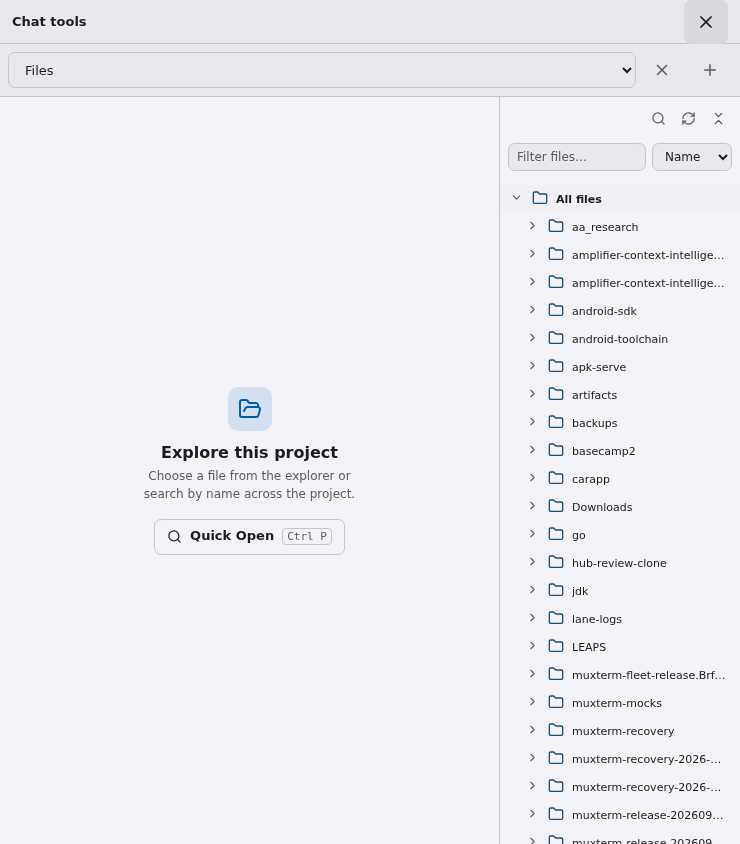
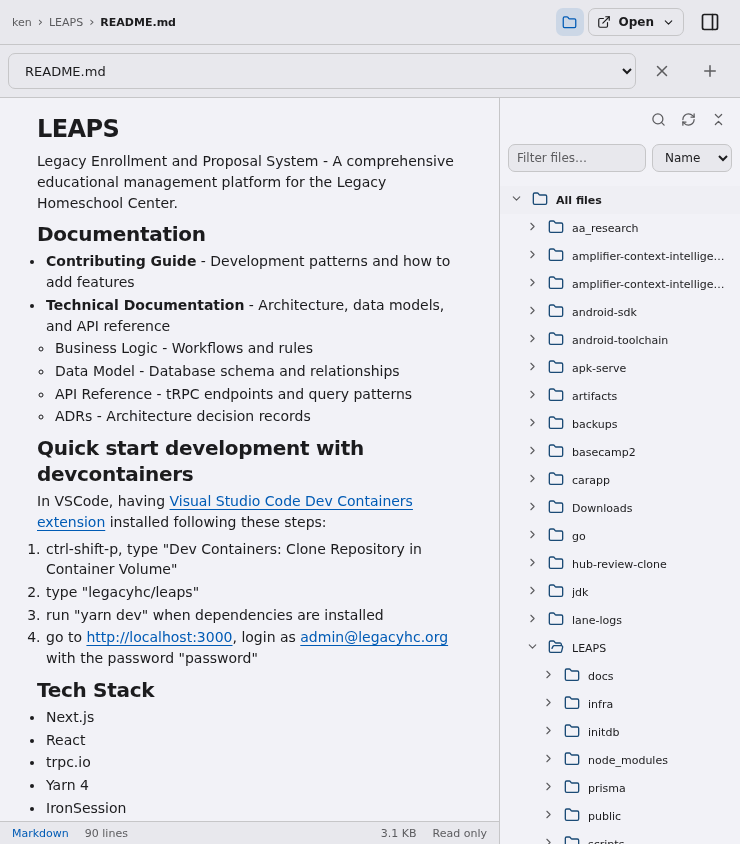
Place mobile file breadcrumb in utility header

diff --git a/web/src/components/mux-sdk-utility.ts b/web/src/components/mux-sdk-utility.ts
@@ -1,6 +1,6 @@
 import { LitElement, html, nothing, type TemplateResult } from 'lit';
 import { customElement, property } from 'lit/decorators.js';
-import { ArrowLeft, ChevronDown, ChevronRight, ChevronsDownUp, Code2, Copy, Download, Ellipsis, ExternalLink, File, FileImage, FileJson, FileText, Folder, FolderOpen, GitCompare, Globe2, Maximize2, MessageCircleQuestionMark, Minimize2, Network, NotebookPen, Pause, Play, Plus, RefreshCw, RotateCcw, Search, Sparkles, Target, Trash2, X, type IconNode } from 'lucide';
+import { ArrowLeft, ChevronDown, ChevronRight, ChevronsDownUp, Code2, Copy, Download, Ellipsis, ExternalLink, File, FileImage, FileJson, FileText, Folder, FolderOpen, GitCompare, Globe2, Maximize2, MessageCircleQuestionMark, Minimize2, Network, NotebookPen, PanelRight, Pause, Play, Plus, RefreshCw, RotateCcw, Search, Sparkles, Target, Trash2, X, type IconNode } from 'lucide';
 import { apiPath } from '../lib/base-path.js';
 import { icon } from '../lib/icons.js';
 import { parseMarkdown } from '../lib/markdown-stream.js';
@@ -252,7 +252,16 @@ export class MuxSDKUtility extends LitElement {
   override render() {
     if (this.terminalMode) return html`<style>${this.surfaceCSS}</style><div class="terminal-files-header"><strong>Files</strong><mux-ui-button icon-only size="small" variant="quiet" tone="muted" accessible-label="Close file explorer" tooltip="Close file explorer" @click=${() => this.dispatchEvent(new CustomEvent('close',{bubbles:true,composed:true}))}>${icon(X,{size:16})}</mux-ui-button></div><div class="utility-body" aria-label="Files">${this.filesView()}</div>`;
     const tab = this.currentTab;
-    return html`<style>${this.surfaceCSS}</style><mux-ui-tab-strip accessible-label="Chat tools" .tabs=${this.tabs.map((item):TabStripItem => ({id:item.id,label:this.tabTitle(item),title:item.filePath || this.tabTitle(item),icon:icon(item.kind === 'files' && item.filePath ? fileGlyph(item.filePath) : TAB_GLYPHS[item.kind],{size:14})}))} .activeId=${tab.id} @tab-select=${(event:CustomEvent<{id:string}>) => this.selectTab(event.detail.id)} @tab-close=${(event:CustomEvent<{id:string}>) => this.closeTab(event.detail.id)} @tab-add=${() => this.addTab()}></mux-ui-tab-strip><div class="mobile-tab-picker"><mux-ui-select aria-label="Chat tools tab" .options=${this.tabs.map(item => ({value:item.id,label:this.tabTitle(item)}))} .value=${tab.id} @change=${(event:Event) => this.selectTab((event.target as MuxUISelect).value)}></mux-ui-select><mux-ui-button icon-only size="large" variant="quiet" tone="muted" accessible-label=${`Close ${this.tabTitle(tab)} tab`} tooltip="Close tab" @click=${() => this.closeTab(tab.id)}>${icon(X,{size:18})}</mux-ui-button><mux-ui-button icon-only size="large" variant="quiet" tone="muted" accessible-label="New tab" tooltip="New tab" @click=${() => this.addTab()}>${icon(Plus,{size:18})}</mux-ui-button></div><div class="utility-body" role="tabpanel" aria-label=${this.tabTitle(tab)}>${tab.kind === 'new' ? this.newTabView() : tab.kind === 'files' ? this.filesView() : tab.kind === 'status' ? html`<mux-operator-status .sessionId=${this.sessionId}></mux-operator-status>` : tab.kind === 'changes' ? this.changesView() : tab.kind === 'goal' ? this.goalView() : tab.kind === 'browser' ? this.browserView(tab) : this.pagesView()}</div>`;
+    return html`<style>${this.surfaceCSS}</style>${this.mobileHeader()}<mux-ui-tab-strip accessible-label="Chat tools" .tabs=${this.tabs.map((item):TabStripItem => ({id:item.id,label:this.tabTitle(item),title:item.filePath || this.tabTitle(item),icon:icon(item.kind === 'files' && item.filePath ? fileGlyph(item.filePath) : TAB_GLYPHS[item.kind],{size:14})}))} .activeId=${tab.id} @tab-select=${(event:CustomEvent<{id:string}>) => this.selectTab(event.detail.id)} @tab-close=${(event:CustomEvent<{id:string}>) => this.closeTab(event.detail.id)} @tab-add=${() => this.addTab()}></mux-ui-tab-strip><div class="mobile-tab-picker"><mux-ui-select aria-label="Chat tools tab" .options=${this.tabs.map(item => ({value:item.id,label:this.tabTitle(item)}))} .value=${tab.id} @change=${(event:Event) => this.selectTab((event.target as MuxUISelect).value)}></mux-ui-select><mux-ui-button icon-only size="large" variant="quiet" tone="muted" accessible-label=${`Close ${this.tabTitle(tab)} tab`} tooltip="Close tab" @click=${() => this.closeTab(tab.id)}>${icon(X,{size:18})}</mux-ui-button><mux-ui-button icon-only size="large" variant="quiet" tone="muted" accessible-label="New tab" tooltip="New tab" @click=${() => this.addTab()}>${icon(Plus,{size:18})}</mux-ui-button></div><div class="utility-body" role="tabpanel" aria-label=${this.tabTitle(tab)}>${tab.kind === 'new' ? this.newTabView() : tab.kind === 'files' ? this.filesView() : tab.kind === 'status' ? html`<mux-operator-status .sessionId=${this.sessionId}></mux-operator-status>` : tab.kind === 'changes' ? this.changesView() : tab.kind === 'goal' ? this.goalView() : tab.kind === 'browser' ? this.browserView(tab) : this.pagesView()}</div>`;
+  }
+  private mobileHeader(): TemplateResult {
+    if (this.currentTab.kind === 'files') {
+      const file = this.artifact;
+      const hasAlternateView = !!file && !file.binary && !file.tooLarge && (file.kind === 'markdown' || /\.(csv|tsv|html?|svg)$/i.test(file.name));
+      const projectName = (this.projectPath || this.listing?.root || 'Project').split('/').filter(Boolean).pop() || 'Project';
+      return this.fileHeader(projectName, this.selected.split('/').filter(Boolean), file, hasAlternateView, true);
+    }
+    return html`<div class="mobile-utility-header"><span>Chat tools</span><mux-ui-button icon-only size="large" variant="quiet" accessible-label="Close utility pane" tooltip="Close utility pane" @click=${() => this.dispatchEvent(new CustomEvent('close',{bubbles:true,composed:true}))}>${icon(PanelRight,{size:20})}</mux-ui-button></div>`;
   }
   private tabTitle(tab: UtilityTab): string {
     if (tab.kind === 'new') return 'New tab';
@@ -840,23 +849,27 @@ export class MuxSDKUtility extends LitElement {
     window.open(url, '_blank', 'noopener');
     window.setTimeout(() => URL.revokeObjectURL(url), 60_000);
   }
-  private fileHeader(projectName: string, segments: string[], file: Artifact | undefined, hasAlternateView: boolean): TemplateResult {
+  private fileHeader(projectName: string, segments: string[], file: Artifact | undefined, hasAlternateView: boolean, mobile = false): TemplateResult {
     const canOpenInBrowser = !!file && (file.kind === 'image' || !!this.pdfBytes || (!file.tooLarge && !file.binary && (file.kind === 'markdown' || file.kind === 'text')));
     const vsCodeURL = this.vsCodeURL();
-    const pathItems = segments.length ? [
+    const pathItems = [
       { id:'.', label:projectName, actionLabel:'Show project files' },
       ...segments.map((part,index) => ({id:segments.slice(0,index+1).join('/'),label:part,actionLabel:index < segments.length-1 ? `Show ${part} in file browser` : undefined})),
-    ] : [];
-    return html`<div class="viewer-header">
+    ];
+    const showMenu = this.fileMenuOpen && (this.terminalMode || mobile === window.matchMedia('(max-width:767.98px)').matches);
+    return html`<div class="viewer-header ${mobile ? 'mobile-file-header' : ''}">
       ${this.terminalMode ? html`<mux-ui-button icon-only size="small" variant="quiet" tone="muted" accessible-label="Back to files" tooltip="Back to files" @click=${() => this.backToTerminalFiles()}>${icon(ArrowLeft,{size:15})}</mux-ui-button>` : nothing}
-      ${this.selected ? html`<mux-ui-breadcrumb label="Open file path" .items=${pathItems} @breadcrumb-navigate=${(event:CustomEvent<{id:string}>) => void this.navigateFileBreadcrumb(event.detail.id)}></mux-ui-breadcrumb>` : nothing}
+      ${this.selected || mobile ? html`<mux-ui-breadcrumb label="Open file path" .items=${pathItems} @breadcrumb-navigate=${(event:CustomEvent<{id:string}>) => void this.navigateFileBreadcrumb(event.detail.id)}></mux-ui-breadcrumb>` : nothing}
       <div class="file-header-actions">
-        ${file && !this.terminalMode ? html`<mux-ui-button icon-only size="small" variant="quiet" tone="muted" accessible-label="Ask about file" tooltip="Ask about file" @click=${() => this.askAboutFile()}>${icon(MessageCircleQuestionMark,{size:15})}</mux-ui-button>` : nothing}
+        ${file && !this.terminalMode ? html`<mux-ui-button class="file-ask-button" icon-only size="small" variant="quiet" tone="muted" accessible-label="Ask about file" tooltip="Ask about file" @click=${() => this.askAboutFile()}>${icon(MessageCircleQuestionMark,{size:15})}</mux-ui-button>` : nothing}
         ${hasAlternateView ? html`<mux-ui-button class="file-action-button" size="small" variant="secondary" accessible-label=${this.fileMode === 'preview' ? 'View source' : 'View preview'} @click=${() => this.toggleFileMode()}>${icon(Code2,{size:14})}<span>${this.fileMode === 'preview' ? 'View source' : 'View preview'}</span></mux-ui-button>` : nothing}
         ${!this.terminalMode ? html`<mux-ui-button icon-only size="small" variant="quiet" tone="muted" toggle .pressed=${this.filesRailOpen} accessible-label=${this.filesRailOpen ? 'Hide file browser' : 'Show file browser'} tooltip=${this.filesRailOpen ? 'Hide file browser' : 'Show file browser'} @click=${() => { this.filesRailOpen = !this.filesRailOpen; this.fileMenuOpen = false; this.paintAll(); }}>${icon(Folder,{size:15})}</mux-ui-button>` : nothing}
+        ${!file && mobile ? html`<mux-ui-button size="small" variant="secondary" accessible-label="Open file" @click=${() => this.showQuickOpen()}>${icon(Search,{size:14})}<span>Open</span></mux-ui-button>` : nothing}
         ${file ? html`<div class="file-open-wrap">
           <mux-ui-button class="file-open-button" size="small" variant="secondary" accessible-label="Open file options" tooltip="Open file options" haspopup="menu" .expanded=${this.fileMenuOpen} @click=${() => { this.fileMenuOpen = !this.fileMenuOpen; this.paintAll(); }}>${icon(ExternalLink,{size:14})}<span>Open</span>${icon(ChevronDown,{size:13})}</mux-ui-button>
-          ${this.fileMenuOpen ? html`<mux-ui-menu class="file-open-menu" label="Open file" @menu-dismiss=${(event:CustomEvent<{restoreFocus:boolean}>) => { this.fileMenuOpen = false; this.paintAll(); if (event.detail.restoreFocus) queueMicrotask(() => this.querySelector<MuxUIButton>('.file-open-button')?.focus()); }}>
+          ${showMenu ? html`<mux-ui-menu class="file-open-menu" label="Open file" @menu-dismiss=${(event:CustomEvent<{restoreFocus:boolean}>) => { this.fileMenuOpen = false; this.paintAll(); if (event.detail.restoreFocus) queueMicrotask(() => this.querySelector<MuxUIButton>('.file-open-button')?.focus()); }}>
+            ${mobile ? html`<mux-ui-menu-item @click=${() => { this.fileMenuOpen = false; this.askAboutFile(); }}>${icon(MessageCircleQuestionMark,{size:14})}Ask about file</mux-ui-menu-item>` : nothing}
+            ${mobile && hasAlternateView ? html`<mux-ui-menu-item @click=${() => { this.fileMenuOpen = false; this.toggleFileMode(); }}>${icon(Code2,{size:14})}${this.fileMode === 'preview' ? 'View source' : 'View preview'}</mux-ui-menu-item>` : nothing}
             ${canOpenInBrowser ? html`<mux-ui-menu-item @click=${() => { this.fileMenuOpen = false; this.openFileInBrowser(); }}>${icon(ExternalLink,{size:14})}Open in browser tab</mux-ui-menu-item>` : nothing}
             ${vsCodeURL ? html`<mux-ui-menu-item href=${vsCodeURL} @click=${() => { this.fileMenuOpen = false; }}>${icon(Code2,{size:14})}Open with VS Code</mux-ui-menu-item>` : nothing}
             <div role="separator"></div>
@@ -868,6 +881,7 @@ export class MuxSDKUtility extends LitElement {
             <mux-ui-menu-item @click=${() => { this.fileMenuOpen = false; if (this.terminalMode) this.backToTerminalFiles(); else this.closeTab(this.currentTab.id); }}>${icon(X,{size:14})}Close file</mux-ui-menu-item>
           </mux-ui-menu>` : nothing}
         </div>` : nothing}
+        ${mobile ? html`<mux-ui-button icon-only size="large" variant="quiet" accessible-label="Close utility pane" tooltip="Close utility pane" @click=${() => this.dispatchEvent(new CustomEvent('close',{bubbles:true,composed:true}))}>${icon(PanelRight,{size:20})}</mux-ui-button>` : nothing}
       </div>
     </div>`;
   }
@@ -1133,6 +1147,7 @@ export class MuxSDKUtility extends LitElement {
     mux-sdk-utility .goal-toolbar-actions { display:flex; flex-wrap:wrap; gap:var(--ui-space-2); }
     mux-sdk-utility mux-ui-feedback.goal-feedback { margin:var(--ui-space-3) var(--ui-space-6) 0; }
     mux-sdk-utility .viewer-header { display:flex; align-items:center; gap:var(--ui-space-4); flex:none; min-height:var(--ui-utility-file-header-height); box-sizing:border-box; border-bottom:1px solid var(--ui-border); padding:var(--ui-space-1) var(--ui-space-4) var(--ui-space-1) var(--ui-space-6); background:transparent; }
+    mux-sdk-utility .mobile-utility-header, mux-sdk-utility .viewer-header.mobile-file-header { display:none; }
     mux-sdk-utility .file-header-actions { display:flex; align-items:center; gap:var(--ui-space-3); flex:none; margin-left:auto; }
     mux-sdk-utility .file-open-wrap { position:relative; }
     mux-sdk-utility .file-open-menu { --ui-menu-offset-y:calc(var(--ui-control-sm) + var(--ui-space-1)); --ui-menu-offset-x:0; --ui-menu-width:var(--ui-toast-min-width); }
@@ -1237,5 +1252,14 @@ export class MuxSDKUtility extends LitElement {
     mux-sdk-utility[terminal-mode] .files-panel > .viewer { display:none; height:100%; }
     mux-sdk-utility[terminal-mode] .files-panel.terminal-preview > .browser { display:none; }
     mux-sdk-utility[terminal-mode] .files-panel.terminal-preview > .viewer { display:flex; }
+    @media(max-width:767.98px) {
+      mux-sdk-utility .mobile-utility-header, mux-sdk-utility .viewer-header.mobile-file-header { box-sizing:border-box; display:flex; align-items:center; flex:none; min-height:var(--ui-nav-height); padding:0 var(--ui-space-4) 0 var(--ui-space-5); border-bottom:1px solid var(--ui-border); }
+      mux-sdk-utility .mobile-utility-header { justify-content:space-between; font:600 var(--ui-text-md) var(--ui-font-sans); }
+      mux-sdk-utility .viewer-header.mobile-file-header { flex-wrap:nowrap; gap:var(--ui-space-2); }
+      mux-sdk-utility .viewer-header.mobile-file-header mux-ui-breadcrumb { flex:1 1 auto; min-width:0; }
+      mux-sdk-utility .viewer-header.mobile-file-header .file-header-actions { gap:var(--ui-space-2); margin-left:0; }
+      mux-sdk-utility .viewer-header.mobile-file-header .file-ask-button, mux-sdk-utility .viewer-header.mobile-file-header .file-action-button { display:none; }
+      mux-sdk-utility .files-panel > .viewer-header { display:none; }
+    }
   `;
 }

diff --git a/web/src/components/mux-sdk-chat.ts b/web/src/components/mux-sdk-chat.ts
@@ -90,7 +90,7 @@ function readTranscriptCache(id: string): CachedTranscript | undefined {
   return undefined;
 }
 import { icon } from '../lib/icons.js';
-import { Archive, ArchiveRestore, ArrowUp, BookOpen, Bot, Check, ChevronDown, ChevronRight, Copy, Ellipsis, FilePenLine, Folder, GitFork, Globe, Menu, Mic, Network, PanelRight, Pencil, Pin, PinOff, Search, Square, Target, Terminal, Wrench, X, type IconNode } from 'lucide';
+import { Archive, ArchiveRestore, ArrowUp, BookOpen, Bot, Check, ChevronDown, ChevronRight, Copy, Ellipsis, FilePenLine, Folder, GitFork, Globe, Menu, Mic, Network, PanelRight, Pencil, Pin, PinOff, Search, Square, Target, Terminal, Wrench, type IconNode } from 'lucide';
 
 type GoalDocument = { schema:number; chatId:string; harness:string; operatorId?:string; policy?:{operatorStart?:{operatorId:string;revision:number;grantedBy:string;consumedBy?:string}}; version:number; controlVersion:number; requestedRevision:number; appliedRevision:number; humanPaused:boolean; state:string; gap?:string; revisions:{revision:number;condition:string;provenance:string;at:string}[]; receipts:{id:string;action:string;revision:number;actor:string;status:string;detail?:string;objective?:string;proposalId?:string;evidence?:string[];at:string}[]; observations:{at:string;nativeId?:string;event:{type:string;goalState?:string;goalReason?:string;goalSummary?:string}}[] };
 
@@ -249,7 +249,6 @@ export class MuxSDKChat extends LitElement {
     .chat-action-dialog h2 { margin:0 0 var(--ui-space-4); font-size:var(--ui-text-xl); }
     .chat-action-dialog p { margin:0 0 var(--ui-space-6); color:var(--ui-text-muted); }
     .chat-action-dialog-actions { display:flex; justify-content:flex-end; gap:var(--ui-space-3); margin-top:var(--ui-space-6); }
-    .mobile-utility-header { display:none; }
     @media (display-mode: window-controls-overlay) { .chat-screen-header mux-ui-button { -webkit-app-region:no-drag; } }
     .breadcrumbs { min-width:0; flex:1; }
     .agent-history-error { align-self:center; width:calc(100% - var(--ui-space-11)); max-width:var(--ui-chat-transcript-width); margin:var(--ui-space-5) auto 0; }
@@ -497,7 +496,7 @@ export class MuxSDKChat extends LitElement {
     .drawer-resizer:hover, .drawer-resizer:focus-visible { background:color-mix(in srgb,var(--ui-accent) 25%,transparent); outline:none; }
     @keyframes drawer-in { from { transform:translateX(18px); opacity:.55; } to { transform:translateX(0); opacity:1; } }
     @media(max-width:767.98px) { .chat-screen-header,.chat-screen-header.with-utility { width:100%; --ui-screen-header-padding-right:var(--ui-space-5); } }
-    @media(max-width:767.98px) { .body { padding:var(--ui-space-8) var(--ui-space-6) var(--ui-space-9); } .composer-wrap { padding:0 var(--ui-space-5) var(--ui-space-5); } .drawer,.layout.preview-focused .drawer { box-sizing:border-box; display:flex; flex-direction:column; position:fixed; inset:0; z-index:var(--ui-z-sheet); width:100vw; height:100dvh; margin:0; border:0; box-shadow:var(--ui-shadow-side-strong); padding-top:env(safe-area-inset-top, 0px); } .drawer mux-sdk-utility { flex:1; min-height:0; height:auto; } .drawer-resizer { display:none; } .mobile-utility-header { box-sizing:border-box; display:flex; align-items:center; justify-content:space-between; flex:none; height:var(--ui-nav-height); padding:0 var(--ui-space-5); border-bottom:1px solid var(--ui-border); font:600 var(--ui-text-md) var(--ui-font-sans); } .topbar-actions { gap:var(--ui-space-1); } .chat-screen-header .mobile-nav, .chat-screen-header .chat-menu-trigger, .chat-screen-header .pane-controls mux-ui-button { width:var(--ui-control-lg); height:var(--ui-control-lg); } }
+    @media(max-width:767.98px) { .body { padding:var(--ui-space-8) var(--ui-space-6) var(--ui-space-9); } .composer-wrap { padding:0 var(--ui-space-5) var(--ui-space-5); } .drawer,.layout.preview-focused .drawer { box-sizing:border-box; display:flex; flex-direction:column; position:fixed; inset:0; z-index:var(--ui-z-sheet); width:100vw; height:100dvh; margin:0; border:0; box-shadow:var(--ui-shadow-side-strong); padding-top:env(safe-area-inset-top, 0px); } .drawer mux-sdk-utility { flex:1; min-height:0; height:auto; } .drawer-resizer { display:none; } .topbar-actions { gap:var(--ui-space-1); } .chat-screen-header .mobile-nav, .chat-screen-header .chat-menu-trigger, .chat-screen-header .pane-controls mux-ui-button { width:var(--ui-control-lg); height:var(--ui-control-lg); } }
   `;
   override connectedCallback() {
     super.connectedCallback();
@@ -2561,7 +2560,7 @@ export class MuxSDKChat extends LitElement {
       <div class="composer-controls">${this.attachmentPicker()}<mux-sdk-chat-settings .sessionId=${this.sessionId} .harness=${this.chat?.harness || ''} .operator=${!!this.chat?.operator} .turnBusy=${this.busy} @operator-changed=${(e: CustomEvent<SDKChat>) => void this.operatorChanged(e.detail)} @settings-pending=${(e: CustomEvent<boolean>) => { this.settingsPending = e.detail; }}></mux-sdk-chat-settings>${this.dictationButton()}${this.sendVoiceButton()}</div>`}
 
     </div></div></div>
-      ${this.drawerOpen ? keyed(this.sessionId, html`<aside class="drawer" aria-label="Right drawer" style=${`--utility-width:${this.drawerWidth}px`}><div class="drawer-resizer" role="separator" aria-label="Resize right drawer" aria-orientation="vertical" tabindex="0" @pointerdown=${this.startDrawerResize} @pointermove=${this.moveDrawerResize} @pointerup=${this.endDrawerResize} @lostpointercapture=${this.endDrawerResize} @keydown=${(e: KeyboardEvent) => { if (e.key === 'ArrowLeft' || e.key === 'ArrowRight') { const {min,max}=this.widthLimits(); this.drawerWidth=Math.round(Math.max(min,Math.min(max,this.drawerWidth+(e.key === 'ArrowLeft' ? 20 : -20)))); try { localStorage.setItem(this.drawerKey(),String(this.drawerWidth)); } catch { /* private browsing */ } e.preventDefault(); } }}></div><div class="mobile-utility-header"><span>Chat tools</span><mux-ui-button icon-only size="large" variant="quiet" accessible-label="Close utility pane" tooltip="Close utility pane" @click=${() => this.setPaneMode('chat')}>${icon(X,{size:20})}</mux-ui-button></div><mux-sdk-utility .sessionId=${this.sessionId} .projectPath=${this.chat?.projectPath || ''} .goalText=${this.currentGoalText()} .goalState=${this.goalDocument?.state || ''} .goalHumanPaused=${!!this.goalDocument?.humanPaused} .goalControlPending=${this.commandPending || !!this.goalDocument?.receipts.some(receipt => receipt.status === 'dispatching')} .goalRefinePending=${this.goalifyPending} .goalRefineDisabled=${this.busy} .goalFeedback=${this.goalifyError || this.goalNotice || (this.commandFailed ? this.commandNotice : '')} .goalFeedbackError=${!!this.goalifyError || !!this.goalNotice || this.commandFailed} .focused=${this.previewFocused} .touched=${this.touchedFiles()} @goal-refine=${() => void this.refineGoal(this.currentGoalText())} @goal-control=${(event:CustomEvent<{action:'pause'|'resume'|'clear'}>) => void this.executeChatCommand({name:'goal',action:event.detail.action})} @sdk-file-reference=${this.stageFileReference} @sdk-page-prompt=${this.stagePagePrompt} @sdk-file-focus=${() => this.setPaneMode(this.previewFocused ? 'split' : 'preview')}></mux-sdk-utility></aside>`) : nothing}
+      ${this.drawerOpen ? keyed(this.sessionId, html`<aside class="drawer" aria-label="Right drawer" style=${`--utility-width:${this.drawerWidth}px`}><div class="drawer-resizer" role="separator" aria-label="Resize right drawer" aria-orientation="vertical" tabindex="0" @pointerdown=${this.startDrawerResize} @pointermove=${this.moveDrawerResize} @pointerup=${this.endDrawerResize} @lostpointercapture=${this.endDrawerResize} @keydown=${(e: KeyboardEvent) => { if (e.key === 'ArrowLeft' || e.key === 'ArrowRight') { const {min,max}=this.widthLimits(); this.drawerWidth=Math.round(Math.max(min,Math.min(max,this.drawerWidth+(e.key === 'ArrowLeft' ? 20 : -20)))); try { localStorage.setItem(this.drawerKey(),String(this.drawerWidth)); } catch { /* private browsing */ } e.preventDefault(); } }}></div><mux-sdk-utility .sessionId=${this.sessionId} .projectPath=${this.chat?.projectPath || ''} .goalText=${this.currentGoalText()} .goalState=${this.goalDocument?.state || ''} .goalHumanPaused=${!!this.goalDocument?.humanPaused} .goalControlPending=${this.commandPending || !!this.goalDocument?.receipts.some(receipt => receipt.status === 'dispatching')} .goalRefinePending=${this.goalifyPending} .goalRefineDisabled=${this.busy} .goalFeedback=${this.goalifyError || this.goalNotice || (this.commandFailed ? this.commandNotice : '')} .goalFeedbackError=${!!this.goalifyError || !!this.goalNotice || this.commandFailed} .focused=${this.previewFocused} .touched=${this.touchedFiles()} @goal-refine=${() => void this.refineGoal(this.currentGoalText())} @goal-control=${(event:CustomEvent<{action:'pause'|'resume'|'clear'}>) => void this.executeChatCommand({name:'goal',action:event.detail.action})} @sdk-file-reference=${this.stageFileReference} @sdk-page-prompt=${this.stagePagePrompt} @sdk-file-focus=${() => this.setPaneMode(this.previewFocused ? 'split' : 'preview')} @close=${() => this.setPaneMode('chat')}></mux-sdk-utility></aside>`) : nothing}
     </div>${this.dropActive ? html`<div class="drop-overlay" role="status">Drop files to attach</div>` : nothing}`;
   }
 }
